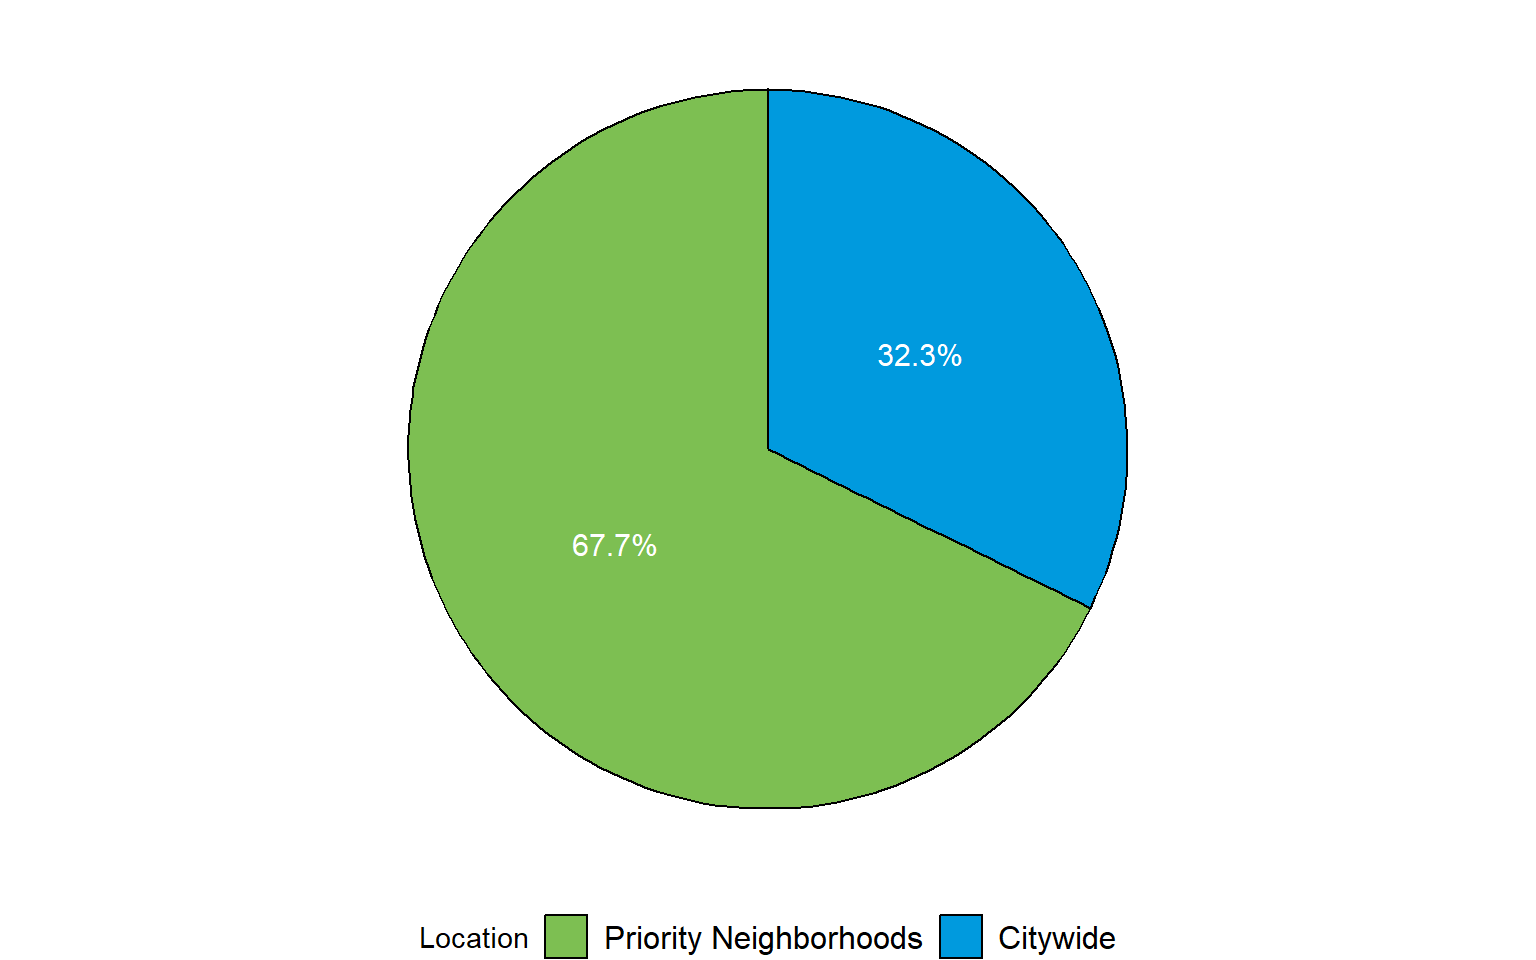
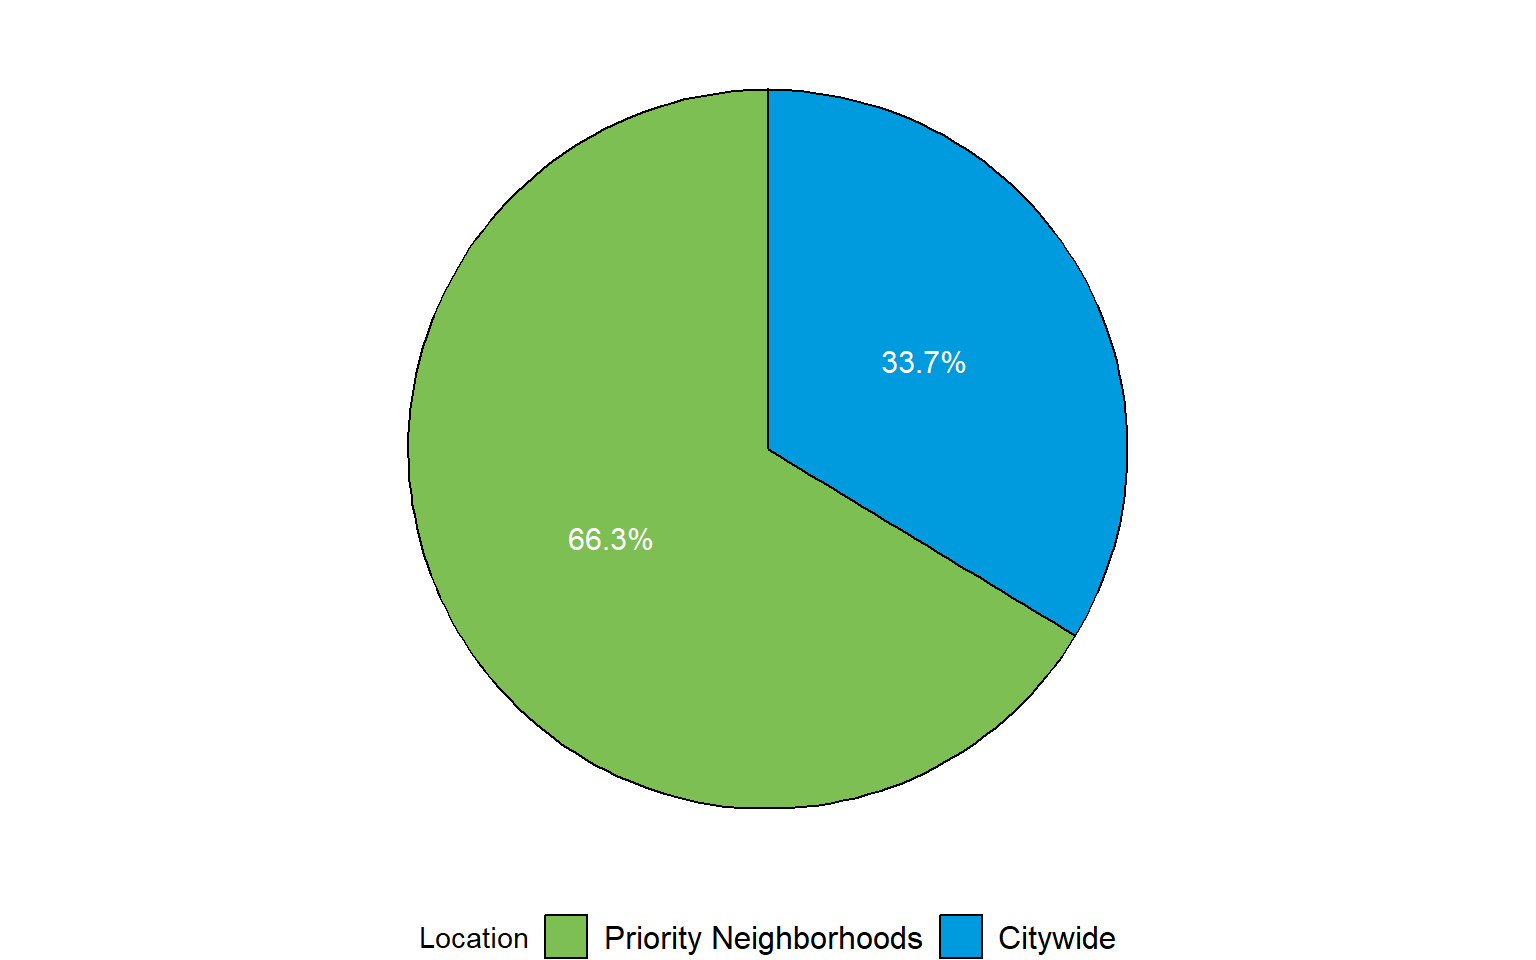
Built site for gh-pages

diff --git a/index.html b/index.html
@@ -89,7 +89,7 @@ grid-auto-rows: minmax(0, 1fr);">
 Total Capital Invested Across All Programs
 </p>
 <p class="value-box-value">
-$261.8 Million
+$464.8 Million
 </p>
 </div>
 </div>
@@ -105,7 +105,7 @@ $261.8 Million
 Total Economic Impact
 </p>
 <p class="value-box-value">
-$822.6 Million
+$865.5 Million
 </p>
 </div>
 </div>
@@ -164,7 +164,7 @@ Total Capital Investment
 <div class="card-body html-fill-item html-fill-container">
 <div class="quarto-figure quarto-figure-center html-fill-item html-fill-container">
 <figure class="figure">
-<p><a href="https://iatl.maps.arcgis.com/apps/instant/basic/index.html?appid=112649da7b1d4fa58098c16cc402dcc4" target="_blank"><img src="wins_map_20260414.png" class="img-fluid figure-img" style="width:51.0%"></a></p>
+<p><a href="https://iatl.maps.arcgis.com/apps/instant/basic/index.html?appid=112649da7b1d4fa58098c16cc402dcc4" target="_blank"><img src="wins_map_20260710.png" class="img-fluid figure-img" style="width:51.0%"></a></p>
 <figcaption>Click the image to explore our interactive online investment map</figcaption>
 </figure>
 </div>
@@ -193,7 +193,7 @@ grid-auto-rows: minmax(0, 1fr);">
 Direct Investment
 </p>
 <p class="value-box-value">
-$1.7 Million
+$2.0 Million
 </p>
 </div>
 </div>
@@ -209,7 +209,7 @@ $1.7 Million
 Small Businesses Funded (Grants and Loans)
 </p>
 <p class="value-box-value">
-28
+37
 </p>
 </div>
 </div>
@@ -225,7 +225,7 @@ Small Businesses Funded (Grants and Loans)
 Small Businesses Receiving Business Consulting Services
 </p>
 <p class="value-box-value">
-480
+564
 </p>
 </div>
 </div>
@@ -241,7 +241,7 @@ Small Businesses Receiving Business Consulting Services
 Small Business Funded in Priority Neighborhoods
 </p>
 <p class="value-box-value">
-60.7%
+56.7%
 </p>
 </div>
 </div>
@@ -311,7 +311,7 @@ grid-auto-rows: minmax(0, 1fr);">
 Percentage of Projects in Priority Neighborhoods
 </p>
 <p class="value-box-value">
-62.1%
+58.3%
 </p>
 </div>
 </div>
@@ -327,7 +327,7 @@ Percentage of Projects in Priority Neighborhoods
 TAD Financing
 </p>
 <p class="value-box-value">
-$13.2 Million
+$34.5 Million
 </p>
 </div>
 </div>
@@ -343,7 +343,7 @@ $13.2 Million
 TAD Project Leveraged Capital
 </p>
 <p class="value-box-value">
-$40.8 Million
+$88.1 Million
 </p>
 </div>
 </div>
@@ -359,7 +359,7 @@ $40.8 Million
 Invest Atlanta Community Engagement Events
 </p>
 <p class="value-box-value">
-138
+162
 </p>
 </div>
 </div>
@@ -429,7 +429,7 @@ grid-auto-rows: minmax(0, 1fr);">
 Direct Investment in Affordable Housing
 </p>
 <p class="value-box-value">
-$4.5 Million
+$39.3 Million
 </p>
 </div>
 </div>
@@ -445,7 +445,7 @@ $4.5 Million
 Total Capital Investment in Affordable Housing
 </p>
 <p class="value-box-value">
-$22.4 Million
+$134.9 Million
 </p>
 </div>
 </div>
@@ -461,7 +461,7 @@ $22.4 Million
 Total Affordable Housing Units Financed
 </p>
 <p class="value-box-value">
-125
+328
 </p>
 </div>
 </div>
@@ -477,7 +477,7 @@ Total Affordable Housing Units Financed
 Homeownership Incentives (Down Payment, Home Rehab, Tax Relief)
 </p>
 <p class="value-box-value">
-120
+135
 </p>
 </div>
 </div>
@@ -547,7 +547,7 @@ grid-auto-rows: minmax(0, 1fr);">
 Total Capital Investment (Jobs &amp; Employment)
 </p>
 <p class="value-box-value">
-$125.9 Million
+$127.0 Million
 </p>
 </div>
 </div>
@@ -563,7 +563,7 @@ $125.9 Million
 Total Jobs Impact
 </p>
 <p class="value-box-value">
-1,442
+1,602
 </p>
 </div>
 </div>
@@ -579,7 +579,7 @@ Total Jobs Impact
 Business Development Projects
 </p>
 <p class="value-box-value">
-27
+28
 </p>
 </div>
 </div>
@@ -595,7 +595,7 @@ Business Development Projects
 Total Economic Impact (Jobs &amp; Employment)
 </p>
 <p class="value-box-value">
-$718.1 Million
+$720.2 Million
 </p>
 </div>
 </div>
